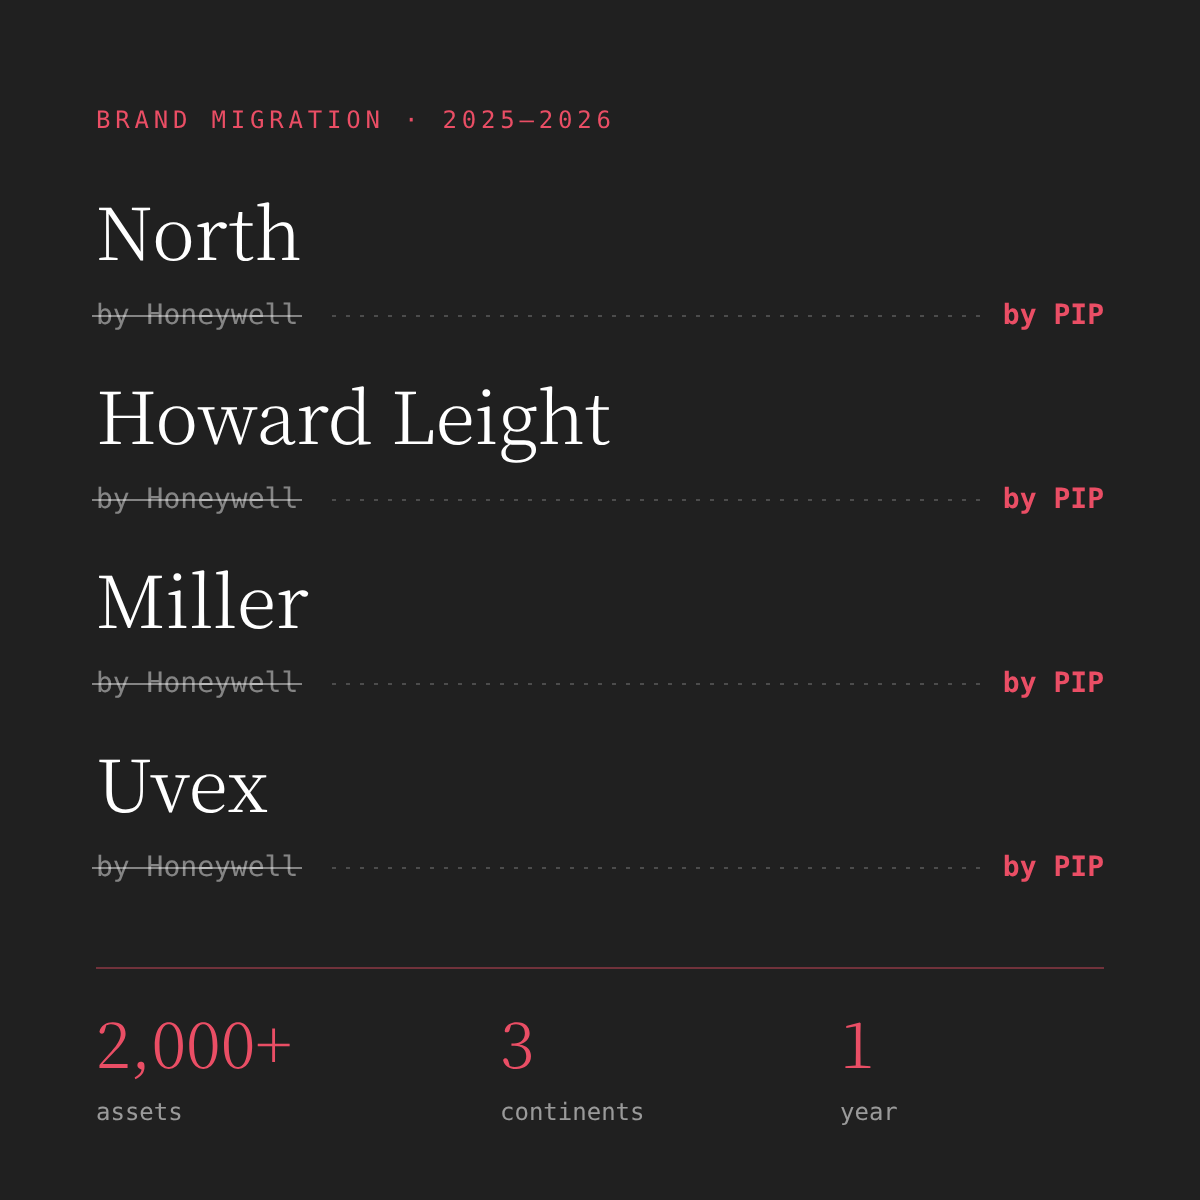
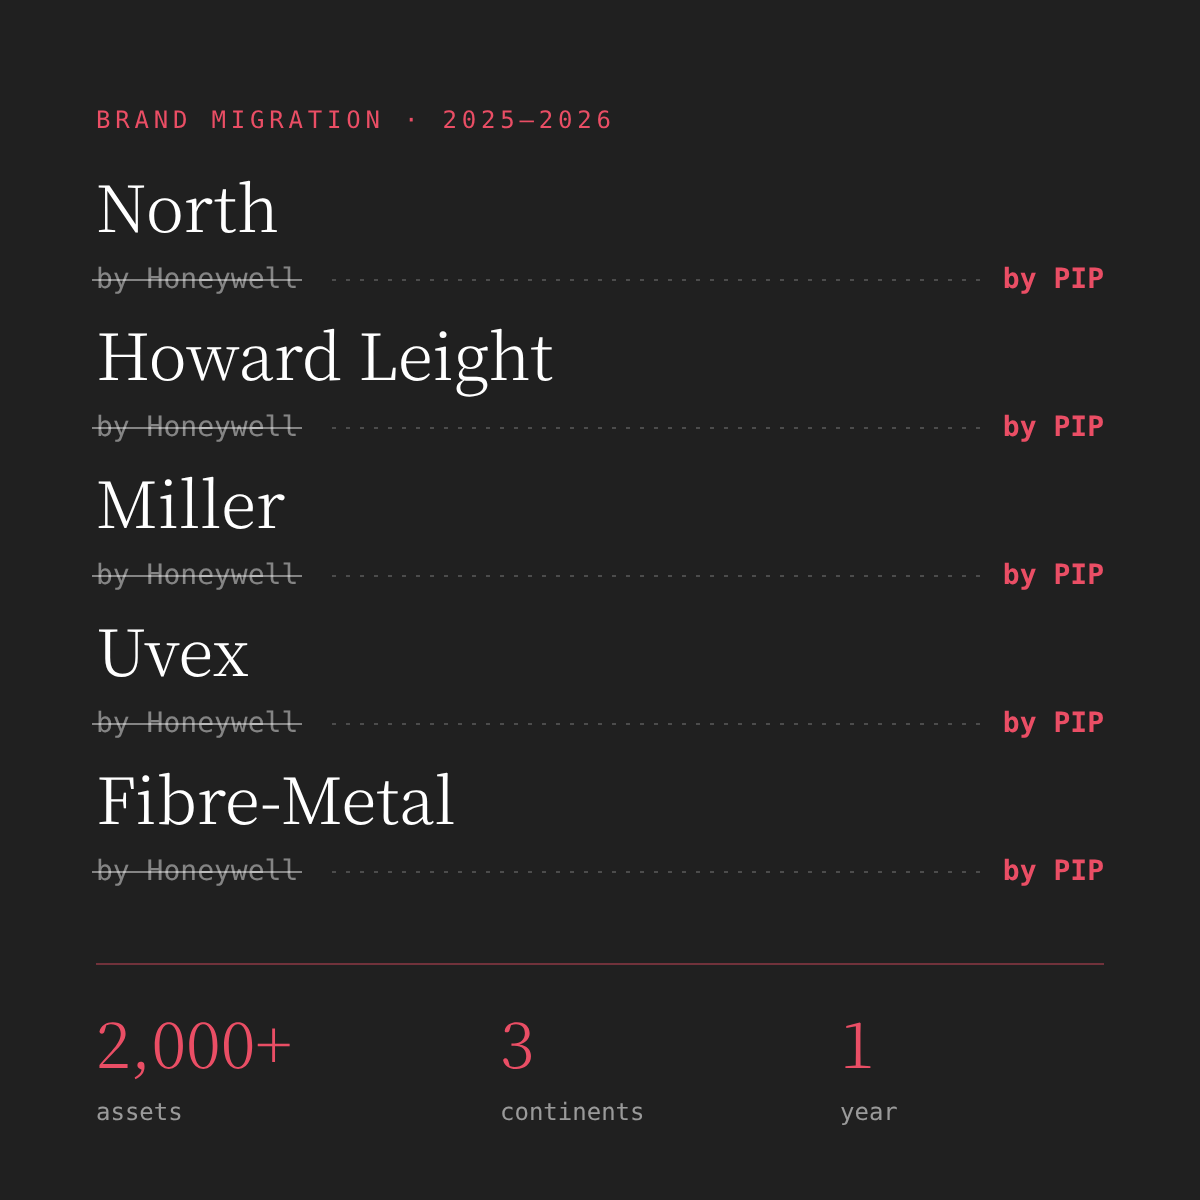
Add files via upload

diff --git a/PIP.html b/PIP.html
@@ -5,12 +5,12 @@
 <meta name="viewport" content="width=device-width, initial-scale=1">
 
 <title>PIP Global Safety — Gustavo Quiros</title>
-<meta name="description" content="Case study: leading the design side of PIP Global Safety's migration of 2,000+ Honeywell assets (North, Howard Leight, Miller and Uvex) across the Americas, Europe and Asia in one year.">
+<meta name="description" content="Case study: leading the design side of PIP Global Safety's migration of 2,000+ Honeywell assets (North, Howard Leight, Miller, Uvex and Fibre-Metal) across the Americas, Europe and Asia in one year.">
 
 <meta property="og:type" content="article">
 <meta property="og:url" content="https://gustavoquiros.com/PIP.html">
 <meta property="og:title" content="PIP Global Safety — Gustavo Quiros">
-<meta property="og:description" content="2,000+ safety assets, four brands, three continents, one year: rebranding Honeywell's PPE portfolio as PIP.">
+<meta property="og:description" content="2,000+ safety assets, five brands, three continents, one year: rebranding Honeywell's PPE portfolio as PIP.">
 <meta property="og:image" content="https://www.gustavoquiros.com/og-image.png">
 
 <link rel="icon" type="image/png" href="favicon.png">
@@ -126,10 +126,11 @@
   /* brand photo grid */
   .brands {
     display: grid;
-    grid-template-columns: repeat(2, minmax(0, 1fr));
+    grid-template-columns: repeat(6, minmax(0, 1fr));
     gap: 24px;
   }
-  .brands__item { margin: 0; }
+  .brands__item { margin: 0; grid-column: span 2; }
+  .brands__item:nth-child(n+4) { grid-column: span 3; }
   .brands .shot img {
     aspect-ratio: 2.75 / 1;
     object-fit: cover;
@@ -148,7 +149,7 @@
   .hero__svg .h-bg { fill: #202020; }
   .hero__svg text { font-family: 'Space Mono', monospace; }
   .hero__svg .h-kicker { font-size: 12px; letter-spacing: 0.2em; fill: #ea4e65; }
-  .hero__svg .h-name { font-family: var(--serif), 'Noto Serif JP', serif; font-size: 36px; font-weight: 300; fill: #fff; }
+  .hero__svg .h-name { font-family: var(--serif), 'Noto Serif JP', serif; font-size: 32px; font-weight: 300; fill: #fff; }
   .hero__svg .h-old { font-size: 14px; fill: rgba(255, 255, 255, 0.45); }
   .hero__svg .h-strike { stroke: rgba(255, 255, 255, 0.45); stroke-width: 1; }
   .hero__svg .h-link { stroke: rgba(255, 255, 255, 0.2); stroke-width: 1; stroke-dasharray: 2 5; }
@@ -158,6 +159,7 @@
   .hero__svg .h-label { font-size: 12px; fill: rgba(255, 255, 255, 0.55); }
   @media (max-width: 860px) {
     .scope, .brands { grid-template-columns: 1fr; }
+    .brands__item, .brands__item:nth-child(n+4) { grid-column: auto; }
   }
   @media (max-width: 640px) {
     .panel { padding: 18px; }
@@ -196,40 +198,45 @@
         <p class="study__kicker">Global Product Migration & Rebranding</p>
 
         <p class="study__lede">
-          When PIP Global Safety acquired Honeywell’s personal protective equipment business in 2025, four established brands, <b>North, Howard Leight, Miller and Uvex</b>, had to move from Honeywell to PIP. That meant <b>more than 2,000 assets in one year</b>, including manuals, labels, insert cards, packaging, spec sheets and digital interfaces, and every one had to stay compliant in every market where it was sold.
+          When PIP Global Safety acquired Honeywell’s personal protective equipment business in 2025, five established brands, <b>North, Howard Leight, Miller, Uvex and Fibre-Metal</b>, had to move from Honeywell to PIP. That meant <b>more than 2,000 assets in one year</b>, including manuals, labels, insert cards, packaging, spec sheets and digital interfaces, and every one had to stay compliant in every market where it was sold.
         </p>
         <p class="study__lede">
-          As <b>Lead UI/UX & Product Designer</b> on a 10-person global design team, I started with the Americas portfolio and later expanded to Europe and Asia. My job was less about designing assets one at a time and more about setting priorities and building the reusable system that let the team move quickly while staying compliant.
+          As <b>Lead UI/UX & Product Designer</b> and <b>Senior Packaging Designer</b> on a 10-person global design team, I started with the Americas portfolio and later expanded to Europe and Asia. My job was less about designing assets one at a time and more about setting priorities and building the reusable system that let the team move quickly while staying compliant.
         </p>
       </div>
 
       <figure class="shot hero">
         <svg class="hero__svg" viewBox="0 0 600 600" role="img" aria-labelledby="hero-title hero-desc">
-          <title id="hero-title">Four brands moved from Honeywell to PIP</title>
-          <desc id="hero-desc">North, Howard Leight, Miller and Uvex, each changing from "by Honeywell" to "by PIP". More than 2,000 assets across 3 continents in 1 year.</desc>
+          <title id="hero-title">Five brands moved from Honeywell to PIP</title>
+          <desc id="hero-desc">North, Howard Leight, Miller, Uvex and Fibre-Metal, each changing from "by Honeywell" to "by PIP". More than 2,000 assets across 3 continents in 1 year.</desc>
           <rect class="h-bg" x="0" y="0" width="600" height="600"/>
           <text class="h-kicker" x="48" y="64">BRAND MIGRATION · 2025–2026</text>
-          <text class="h-name" x="48" y="130">North</text>
-          <text class="h-old" x="48" y="162">by Honeywell</text>
-          <line class="h-strike" x1="46" y1="158" x2="151" y2="158"/>
-          <line class="h-link" x1="166" y1="158" x2="490" y2="158"/>
-          <text class="h-new" x="552" y="162" text-anchor="end">by PIP</text>
-          <text class="h-name" x="48" y="222">Howard Leight</text>
-          <text class="h-old" x="48" y="254">by Honeywell</text>
-          <line class="h-strike" x1="46" y1="250" x2="151" y2="250"/>
-          <line class="h-link" x1="166" y1="250" x2="490" y2="250"/>
-          <text class="h-new" x="552" y="254" text-anchor="end">by PIP</text>
-          <text class="h-name" x="48" y="314">Miller</text>
-          <text class="h-old" x="48" y="346">by Honeywell</text>
-          <line class="h-strike" x1="46" y1="342" x2="151" y2="342"/>
-          <line class="h-link" x1="166" y1="342" x2="490" y2="342"/>
-          <text class="h-new" x="552" y="346" text-anchor="end">by PIP</text>
-          <text class="h-name" x="48" y="406">Uvex</text>
-          <text class="h-old" x="48" y="438">by Honeywell</text>
-          <line class="h-strike" x1="46" y1="434" x2="151" y2="434"/>
-          <line class="h-link" x1="166" y1="434" x2="490" y2="434"/>
-          <text class="h-new" x="552" y="438" text-anchor="end">by PIP</text>
-          <line class="h-rule" x1="48" y1="484" x2="552" y2="484"/>
+          <text class="h-name" x="48" y="116">North</text>
+          <text class="h-old" x="48" y="144">by Honeywell</text>
+          <line class="h-strike" x1="46" y1="140" x2="151" y2="140"/>
+          <line class="h-link" x1="166" y1="140" x2="490" y2="140"/>
+          <text class="h-new" x="552" y="144" text-anchor="end">by PIP</text>
+          <text class="h-name" x="48" y="190">Howard Leight</text>
+          <text class="h-old" x="48" y="218">by Honeywell</text>
+          <line class="h-strike" x1="46" y1="214" x2="151" y2="214"/>
+          <line class="h-link" x1="166" y1="214" x2="490" y2="214"/>
+          <text class="h-new" x="552" y="218" text-anchor="end">by PIP</text>
+          <text class="h-name" x="48" y="264">Miller</text>
+          <text class="h-old" x="48" y="292">by Honeywell</text>
+          <line class="h-strike" x1="46" y1="288" x2="151" y2="288"/>
+          <line class="h-link" x1="166" y1="288" x2="490" y2="288"/>
+          <text class="h-new" x="552" y="292" text-anchor="end">by PIP</text>
+          <text class="h-name" x="48" y="338">Uvex</text>
+          <text class="h-old" x="48" y="366">by Honeywell</text>
+          <line class="h-strike" x1="46" y1="362" x2="151" y2="362"/>
+          <line class="h-link" x1="166" y1="362" x2="490" y2="362"/>
+          <text class="h-new" x="552" y="366" text-anchor="end">by PIP</text>
+          <text class="h-name" x="48" y="412">Fibre-Metal</text>
+          <text class="h-old" x="48" y="440">by Honeywell</text>
+          <line class="h-strike" x1="46" y1="436" x2="151" y2="436"/>
+          <line class="h-link" x1="166" y1="436" x2="490" y2="436"/>
+          <text class="h-new" x="552" y="440" text-anchor="end">by PIP</text>
+          <line class="h-rule" x1="48" y1="482" x2="552" y2="482"/>
           <text class="h-stat" x="48" y="534">2,000+</text>
           <text class="h-stat" x="250" y="534">3</text>
           <text class="h-stat" x="420" y="534">1</text>
@@ -243,7 +250,7 @@
     <dl class="facts">
       <div>
         <dt class="facts__key">Role</dt>
-        <dd class="facts__value">Lead UI/UX & Product Designer</dd>
+        <dd class="facts__value">Lead UI/UX & Product Designer · Senior Packaging Designer</dd>
       </div>
       <div>
         <dt class="facts__key">Timeline</dt>
@@ -255,7 +262,7 @@
       </div>
       <div>
         <dt class="facts__key">Brands</dt>
-        <dd class="facts__value">North, Howard Leight, Miller and Uvex, all by PIP</dd>
+        <dd class="facts__value">North, Howard Leight, Miller, Uvex and Fibre-Metal, all by PIP</dd>
       </div>
       <div>
         <dt class="facts__key">Deliverables</dt>
@@ -270,7 +277,7 @@
         <p class="block__label">01 — the challenge</p>
         <h2 class="block__title">A rebrand where mistakes are a safety problem</h2>
         <ul class="points">
-          <li><b>Volume against a fixed date.</b> More than 2,000 assets across four brand catalogs had to switch to PIP within a year, while products kept shipping.</li>
+          <li><b>Volume against a fixed date.</b> More than 2,000 assets across five brand catalogs had to switch to PIP within a year, while products kept shipping.</li>
           <li><b>Regulated content.</b> This is protective equipment. Certification marks, warnings and usage instructions differ by region and can’t be lost or altered when the brand changes.</li>
           <li><b>Many hands.</b> Ten designers on three continents, plus regional product and compliance teams, all touched the files. Without a shared system, the new brand could easily have splintered into local versions.</li>
         </ul>
@@ -328,12 +335,13 @@
         <div class="panel">
           <div class="scope">
             <div>
-              <p class="scope__label">4 brand catalogs</p>
+              <p class="scope__label">5 brand catalogs</p>
               <ul class="scope__chips">
                 <li>North by PIP</li>
                 <li>Howard Leight by PIP</li>
                 <li>Miller by PIP</li>
                 <li>Uvex by PIP</li>
+                <li>Fibre-Metal by PIP</li>
               </ul>
             </div>
             <div>
@@ -360,10 +368,10 @@
             </div>
           </div>
         </div>
-        <figcaption><b>Scope.</b> Everything that carried the Honeywell name, across four catalogs and three continents.</figcaption>
+        <figcaption><b>Scope.</b> Everything that carried the Honeywell name, across five catalogs and three continents.</figcaption>
       </figure>
 
-      <h3 class="block__title visuals__title">The four brands, now under PIP</h3>
+      <h3 class="block__title visuals__title">The five brands, now under PIP</h3>
 
       <figure class="visual">
         <div class="brands">
@@ -382,6 +390,10 @@
           <figure class="brands__item">
             <div class="shot"><img src="./work/images/pip-brand-uvex.webp" width="1920" height="768" loading="lazy" alt="Worker wearing Uvex wraparound safety glasses"></div>
             <figcaption>Uvex by PIP · eye protection</figcaption>
+          </figure>
+          <figure class="brands__item">
+            <div class="shot"><img src="./work/images/pip-brand-fibre-metal.webp" width="1920" height="768" loading="lazy" alt="Fibre-Metal head and face protection in use"></div>
+            <figcaption>Fibre-Metal by PIP · head &amp; face protection</figcaption>
           </figure>
         </div>
         <figcaption><b>Photography: PIP Global Safety.</b> Public brand imagery from pipglobal.com, shown for context. Not my design work.</figcaption>
@@ -413,7 +425,7 @@
         </div>
 
         <ul class="points">
-          <li>All four brand catalogs moved from Honeywell to PIP before the deadline</li>
+          <li>All five brand catalogs moved from Honeywell to PIP before the deadline</li>
           <li>One consistent PIP identity across print, documents and digital in every market</li>
           <li>Every asset type now runs on a reusable template</li>
           <li>A reusable template foundation for future PIP product launches</li>

diff --git a/index.html b/index.html
@@ -64,6 +64,29 @@
 <!-- Shared animation layer (see src/css/motion.css and src/js/motion.js) -->
 <link rel="stylesheet" href="src/css/motion.css">
 <script>(function(){var d=document.documentElement,ok=window.matchMedia&&!matchMedia('(prefers-reduced-motion: reduce)').matches&&'IntersectionObserver' in window;if(!ok)return;d.classList.add('motion');setTimeout(function(){if(!window.__motionReady)d.classList.remove('motion');},3000);})();</script>
+<style>
+  /* project links under each role in the Experience list */
+  .ledger__projects {
+    margin-top: 4px;
+    font-size: 12px;
+    line-height: 1.6;
+    color: var(--text-soft, rgba(255, 255, 255, 0.55));
+  }
+  .ledger__projects-label {
+    margin-right: 6px;
+    font-size: 9px;
+    letter-spacing: 0.16em;
+    text-transform: uppercase;
+  }
+  .ledger__projects a {
+    color: var(--accent, #ea4e65);
+    text-decoration: none;
+    border-bottom: 1px solid transparent;
+    transition: border-color 0.2s ease;
+  }
+  .ledger__projects a:hover,
+  .ledger__projects a:focus-visible { border-bottom-color: currentColor; }
+</style>
 </head>
 
 <body>
@@ -98,7 +121,7 @@
   <div class="intro__head">
     <h1 class="intro__name">Gustavo Quiros</h1>
     <p class="intro__bio">
-      UX & Product Design Lead | Design Strategy | Customer Experience | Design Systems<br>
+      UX & Product Design Lead | Design Strategy | Customer Experience | Design Systems | Packaging Design<br>
       US Citizen | San Diego, California
     </p>
   </div>
@@ -110,20 +133,23 @@
         <div>
           <p class="ledger__org">Curae Health</p>
           <p class="ledger__detail">Senior UI/UX Designer, contract</p>
+          <p class="ledger__projects"><span class="ledger__projects-label">Projects</span> <a href="curae-health.html">Curae Health</a> · Aquina Health</p>
         </div>
         <p class="ledger__date">Jan 2022 – Present</p>
       </li>
       <li class="ledger__row">
         <div>
           <p class="ledger__org">Tata Consultancy Services</p>
-          <p class="ledger__detail">UX/CX Lead | Senior UI/UX Designer</p>
+          <p class="ledger__detail">UX/CX Lead | Senior UI/UX Designer | Senior Packaging Designer</p>
+          <p class="ledger__projects"><span class="ledger__projects-label">Projects</span> <a href="MetLife.html">MetLife</a> · <a href="PIP.html">PIP Global Safety</a></p>
         </div>
         <p class="ledger__date">Jul 2022 – Jul 2026</p>
       </li>
       <li class="ledger__row">
         <div>
           <p class="ledger__org">Hedy & Hopp</p>
-          <p class="ledger__detail">Lead Designer, contract · BJC</p>
+          <p class="ledger__detail">Lead Designer, contract</p>
+          <p class="ledger__projects"><span class="ledger__projects-label">Project</span> <a href="BJC.html">BJC Health</a></p>
         </div>
         <p class="ledger__date">Jan 2022 – Jan 2023</p>
       </li>
@@ -131,6 +157,7 @@
         <div>
           <p class="ledger__org">Token Agency</p>
           <p class="ledger__detail">Lead UI/UX Designer, Creative Lead</p>
+          <p class="ledger__projects"><span class="ledger__projects-label">Clients</span> H&amp;T Law Firm · FJ Capital · PureHealth · Cake&amp;Roll · <a href="Token.html">and more</a></p>
         </div>
         <p class="ledger__date">Aug 2017 – Jan 2022</p>
       </li>
@@ -196,14 +223,14 @@
     <!-- ─── PIP GLOBAL SAFETY ─── -->
     <a class="case" href="PIP.html" aria-labelledby="case-1-name" aria-describedby="case-1-blurb">
       <span class="case__media">
-        <img src="./work/images/pip-hero.png" alt="Four brands moved from Honeywell to PIP: North, Howard Leight, Miller and Uvex">
+        <img src="./work/images/pip-hero.png" alt="Five brands moved from Honeywell to PIP: North, Howard Leight, Miller, Uvex and Fibre-Metal">
         <span class="case__more">
           <span class="case__more-kicker">Case study</span>
           <span class="case__more-text">
             One year leading the design side of a global rebrand: moving 2,000+ Honeywell safety assets to PIP across the Americas, Europe and Asia.
           </span>
           <span class="case__facts">
-            <span><b>Role</b> Lead UI/UX Designer | Product Designer</span>
+            <span><b>Role</b> Lead UI/UX & Product Designer | Senior Packaging Designer</span>
             <span><b>Years</b> 2025 – 2026</span>
           </span>
         </span>
